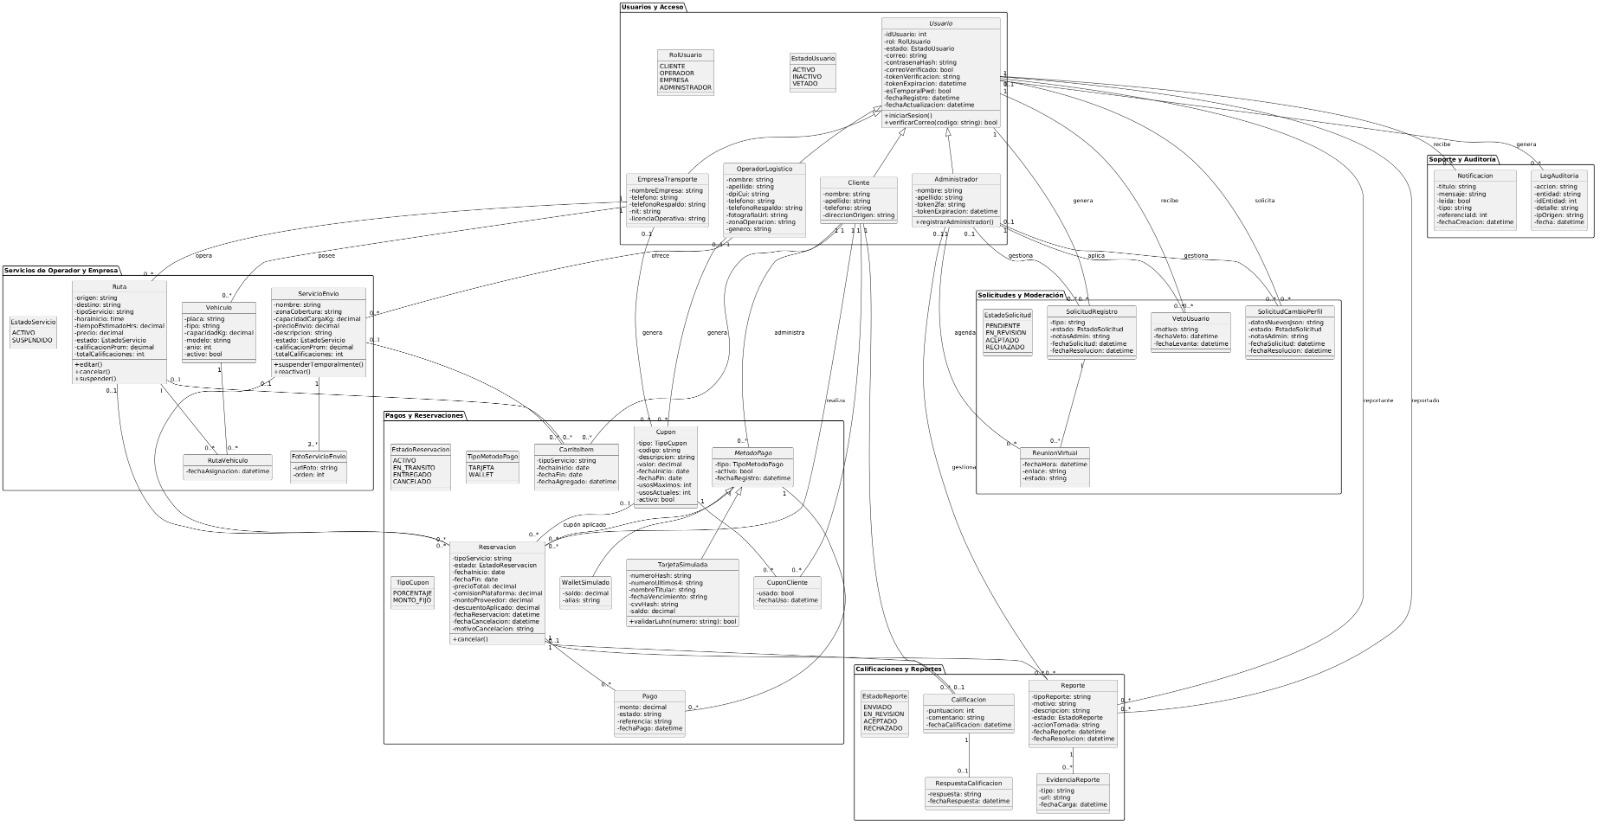
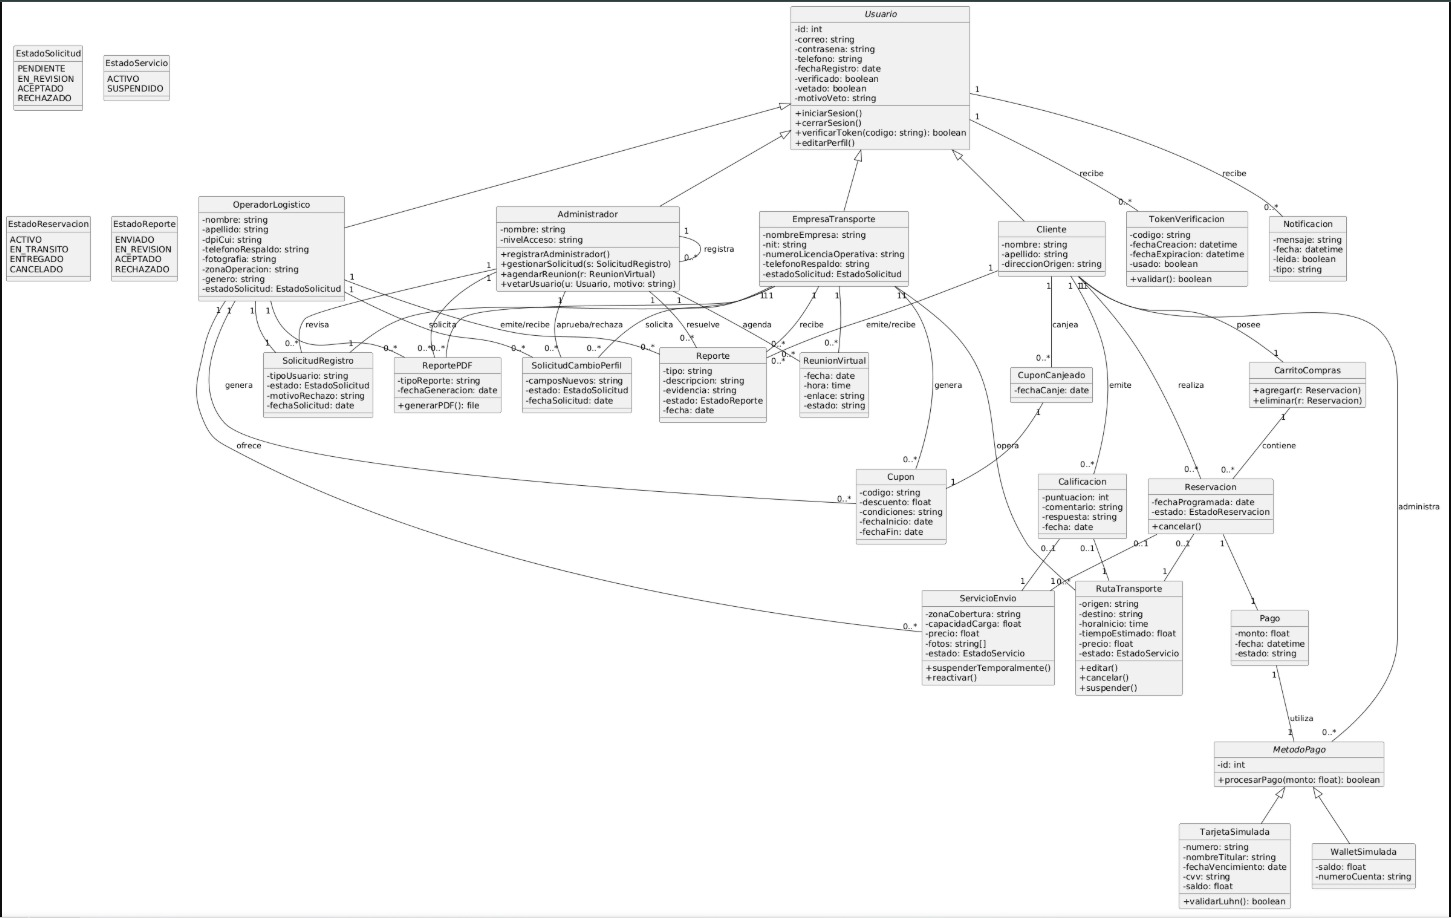
fix: se corrige indice de manual usuario

diff --git a/docs/ManualUsuario.md b/docs/ManualUsuario.md
@@ -4,35 +4,35 @@ Bienvenido al manual de usuario del sistema de logística, envíos y transporte.
 
 ## Índice
 1. [Módulo de Autenticación](#1-módulo-de-autenticación)
-   1.1 [Iniciar Sesión (Login)](#11-iniciar-sesión-login)
-   1.2 [Registro de Usuarios](#12-registro-de-usuarios)
+   - 1.1 [Iniciar Sesión (Login)](#11-iniciar-sesión-login)
+   - 1.2 [Registro de Usuarios](#12-registro-de-usuarios)
 2. [Módulo Clientes](#2-módulo-clientes)
-   2.1 [Buscar servicios de envío](#21-buscar-servicios-de-envío)
-   2.2 [Buscar servicios de transporte](#22-buscar-servicios-de-transporte)
-   2.3 [Programar envío y Sugerencias Cruzadas](#23-programar-envío-y-sugerencias-cruzadas)
-   2.4 [Gestión de pagos y Carrito de compras](#24-gestión-de-pagos-y-carrito-de-compras)
-   2.5 [Calificaciones y Comentarios](#25-calificaciones-y-comentarios)
-   2.6 [Reportar Problemas](#26-reportar-problemas)
-   2.7 [Cancelar Reservación](#27-cancelar-reservación)
+   - 2.1 [Buscar servicios de envío](#21-buscar-servicios-de-envío)
+   - 2.2 [Buscar servicios de transporte](#22-buscar-servicios-de-transporte)
+   - 2.3 [Programar envío y Sugerencias Cruzadas](#23-programar-envío-y-sugerencias-cruzadas)
+   - 2.4 [Gestión de pagos y Carrito de compras](#24-gestión-de-pagos-y-carrito-de-compras)
+   - 2.5 [Calificaciones y Comentarios](#25-calificaciones-y-comentarios)
+   - 2.6 [Reportar Problemas](#26-reportar-problemas)
+   - 2.7 [Cancelar Reservación](#27-cancelar-reservación)
 3. [Módulo de Administrador](#3-módulo-de-administrador)
-   3.1 [Gestión de Registros](#31-gestión-de-registros)
-   3.2 [Gestión de Usuarios](#32-gestión-de-usuarios)
-   3.3 [Gestión de Reportes](#33-gestión-de-reportes)
-   3.4 [Gestión de Cambios en Perfiles](#34-gestión-de-cambios-en-perfiles)
-   3.5 [Visualización de Información](#35-visualización-de-información)
-   3.6 [Reportes Estadísticos](#36-reportes-estadísticos)
+   - 3.1 [Gestión de Registros](#31-gestión-de-registros)
+   - 3.2 [Gestión de Usuarios](#32-gestión-de-usuarios)
+   - 3.3 [Gestión de Reportes](#33-gestión-de-reportes)
+   - 3.4 [Gestión de Cambios en Perfiles](#34-gestión-de-cambios-en-perfiles)
+   - 3.5 [Visualización de Información](#35-visualización-de-información)
+   - 3.6 [Reportes Estadísticos](#36-reportes-estadísticos)
 4. [Módulo de Operadores Logísticos](#4-módulo-de-operadores-logísticos)
-   4.1 [Gestión de Servicios](#41-gestión-de-servicios)
-   4.2 [Calificaciones de Clientes](#42-calificaciones-de-clientes)
-   4.3 [Calendario de Envíos](#43-calendario-de-envíos)
-   4.4 [Reportes PDF](#44-reportes-pdf)
-   4.5 [Gestión de Cupones](#45-gestión-de-cupones)
-   4.6 [Cambios de Perfil](#46-cambios-de-perfil)
+   - 4.1 [Gestión de Servicios](#41-gestión-de-servicios)
+   - 4.2 [Calificaciones de Clientes](#42-calificaciones-de-clientes)
+   - 4.3 [Calendario de Envíos](#43-calendario-de-envíos)
+   - 4.4 [Reportes PDF](#44-reportes-pdf)
+   - 4.5 [Gestión de Cupones](#45-gestión-de-cupones)
+   - 4.6 [Cambios de Perfil](#46-cambios-de-perfil)
 5. [Módulo de Empresas de Transporte](#5-módulo-de-empresas-de-transporte)
-   5.1 [Cargar Flota y Rutas (CSV / Manual)](#51-cargar-flota-y-rutas-csv--manual)
-   5.2 [Editar y Suspender Rutas](#52-editar-y-suspender-rutas)
-   5.3 [Gestión de Cupones](#53-gestión-de-cupones)
-   5.4 [Reportes PDF e Historial](#54-reportes-pdf-e-historial)
+   - 5.1 [Cargar Flota y Rutas (CSV / Manual)](#51-cargar-flota-y-rutas-csv--manual)
+   - 5.2 [Editar y Suspender Rutas](#52-editar-y-suspender-rutas)
+   - 5.3 [Gestión de Cupones](#53-gestión-de-cupones)
+   - 5.4 [Reportes PDF e Historial](#54-reportes-pdf-e-historial)
 
 ---
 
